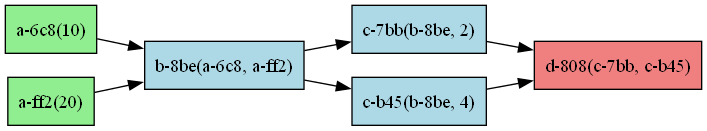
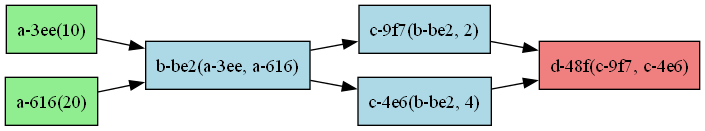
better management of task id and dag id now calling compute twice will generate 2 different dags (working with Flask Worker as well)

Changed region(s): [[0.0, 0.0305, 0.9674, 0.9771], [0.0, 0.0305, 0.1248, 0.3969]]

diff --git a/src/Executor.py b/src/Executor.py
@@ -43,14 +43,14 @@ class LocalCoroutineWorker(Worker):
                 task_dependencies: dict[str, Any] = {}
                 for dependency_task in task.upstream_nodes:
                     task_output = intermediate_storage.IntermediateStorage.get(dependency_task.id.get_full_id())
-                    if task_output is None: raise Exception(f"[BUG] Task {dependency_task.id}'s data is not available")
-                    task_dependencies[dependency_task.id] = cloudpickle.loads(task_output) # type: ignore
+                    if task_output is None: raise Exception(f"[BUG] Task {dependency_task.id.get_full_id()}'s data is not available")
+                    task_dependencies[dependency_task.id.get_full_id()] = cloudpickle.loads(task_output) # type: ignore
                 
                 # 2. EXECUTE TASK
                 self.log(task.id.get_full_id(), f"2) Executing...")
                 task_result = task.invoke(dependencies=task_dependencies)
                 upload_result = intermediate_storage.IntermediateStorage.set(task.id.get_full_id(), cloudpickle.dumps(task_result))
-                if not upload_result: raise Exception(f"[BUG] Task {task.id}'s data could not be uploaded to Redis (set() failed)")
+                if not upload_result: raise Exception(f"[BUG] Task {task.id.get_full_id()}'s data could not be uploaded to Redis (set() failed)")
 
                 if self.shutdown_flag.is_set(): return
 
@@ -60,7 +60,7 @@ class LocalCoroutineWorker(Worker):
                     return
 
                 # 3. HANDLE FAN-OUT (1-1 or 1-N)
-                self.log(task.id.get_full_id(), f"3) Handle Fan-Out {task.id} => [{[t.id for t in task.downstream_nodes]}]")
+                self.log(task.id.get_full_id(), f"3) Handle Fan-Out {task.id.get_full_id()} => [{[t.id.get_full_id() for t in task.downstream_nodes]}]")
                 ready_downstream: list[dag_task_node.DAGTaskNode] = []
                 for downstream_task in task.downstream_nodes:
                     downstream_task_total_dependencies = len(self.subdag.get_node_by_id(downstream_task.id).upstream_nodes)
@@ -68,7 +68,7 @@ class LocalCoroutineWorker(Worker):
                         ready_downstream.append(downstream_task)
                     else:
                         dependencies_met = intermediate_storage.IntermediateStorage.increment_and_get(f"dependency-counter-{downstream_task}")
-                        self.log(task.id.get_full_id(), f"Incremented DC of {downstream_task.id} ({dependencies_met}/{downstream_task_total_dependencies})")
+                        self.log(task.id.get_full_id(), f"Incremented DC of {downstream_task.id.get_full_id()} ({dependencies_met}/{downstream_task_total_dependencies})")
                         if dependencies_met == downstream_task_total_dependencies:
                             ready_downstream.append(downstream_task)
                 
@@ -94,7 +94,7 @@ class LocalCoroutineWorker(Worker):
                 else:
                     return  # Give up
         except Exception as e:
-            self.log(task.id, f"Error: {str(e)}") # type: ignore
+            self.log(task.id.get_full_id(), f"Error: {str(e)}") # type: ignore
             raise e
 
     def _parallelize(self, subsubdag: dag.DAG):
@@ -131,13 +131,13 @@ class FlaskProcessExecutor(Worker):
                 for dependency_task in task.upstream_nodes:
                     task_output = intermediate_storage.IntermediateStorage.get(dependency_task.id.get_full_id())
                     if task_output is None: raise Exception(f"[BUG] Task {dependency_task.id}'s data is not available")
-                    task_dependencies[dependency_task.id] = cloudpickle.loads(task_output) # type: ignore
+                    task_dependencies[dependency_task.id.get_full_id()] = cloudpickle.loads(task_output) # type: ignore
                 
                 # 2. EXECUTE TASK
                 self.log(task.id.get_full_id(), f"2) Executing...")
                 task_result = task.invoke(dependencies=task_dependencies)
                 upload_result = intermediate_storage.IntermediateStorage.set(task.id.get_full_id(), cloudpickle.dumps(task_result))
-                if not upload_result: raise Exception(f"[BUG] Task {task.id}'s data could not be uploaded to Redis (set() failed)")
+                if not upload_result: raise Exception(f"[BUG] Task {task.id.get_full_id()}'s data could not be uploaded to Redis (set() failed)")
 
                 if self.shutdown_flag.is_set(): return
 
@@ -147,7 +147,7 @@ class FlaskProcessExecutor(Worker):
                     return
 
                 # 3. HANDLE FAN-OUT (1-1 or 1-N)
-                self.log(task.id.get_full_id(), f"3) Handle Fan-Out {task.id} => [{[t.id for t in task.downstream_nodes]}]")
+                self.log(task.id.get_full_id(), f"3) Handle Fan-Out {task.id.get_full_id()} => [{[t.id.get_full_id() for t in task.downstream_nodes]}]")
                 ready_downstream: list[dag_task_node.DAGTaskNode] = []
                 for downstream_task in task.downstream_nodes:
                     downstream_task_total_dependencies = len(self.subdag.get_node_by_id(downstream_task.id).upstream_nodes)
@@ -155,7 +155,7 @@ class FlaskProcessExecutor(Worker):
                         ready_downstream.append(downstream_task)
                     else:
                         dependencies_met = intermediate_storage.IntermediateStorage.increment_and_get(f"dependency-counter-{downstream_task.id.get_full_id()}")
-                        self.log(task.id.get_full_id(), f"Incremented DC of {downstream_task.id} ({dependencies_met}/{downstream_task_total_dependencies})")
+                        self.log(task.id.get_full_id(), f"Incremented DC of {downstream_task.id.get_full_id()} ({dependencies_met}/{downstream_task_total_dependencies})")
                         if dependencies_met == downstream_task_total_dependencies:
                             ready_downstream.append(downstream_task)
                 

diff --git a/src/dag_task_node.py b/src/dag_task_node.py
@@ -4,6 +4,9 @@ from functools import wraps
 from typing import Any, Callable, Generic, TypeVar
 import uuid
 
+import cloudpickle
+
+import src.intermediate_storage as intermediate_storage
 import src.dag_task_node as dag_task_node
 
 R = TypeVar('R')
@@ -21,7 +24,7 @@ class DAGTaskNodeId:
 
     def get_full_id(self) -> str: 
         dag_id_str = "" if self.dag_id is None else f"-{self.dag_id}"
-        return f"{self.function_name}-{dag_id_str}{self.task_id}"
+        return f"{self.function_name}{dag_id_str}-{self.task_id}"
 
 class DAGTaskNode(Generic[R]):
     def __init__(self, func: Callable[..., R], args: tuple, kwargs: dict):
@@ -49,7 +52,7 @@ class DAGTaskNode(Generic[R]):
         import src.dag as dag
         dag.DAG.visualize(sink_node=self, open_after=open_after)
 
-    def clone(self, cloned_nodes: dict[str, "DAGTaskNode"] = None) -> "DAGTaskNode":
+    def clone(self, cloned_nodes: dict[str, "DAGTaskNode"] | None = None) -> "DAGTaskNode":
         if cloned_nodes is None:
             cloned_nodes = {}
 
@@ -57,8 +60,7 @@ class DAGTaskNode(Generic[R]):
         if self.id.task_id in cloned_nodes:
             return cloned_nodes[self.id.task_id]
 
-        # Create a shallow copy of the node
-        cloned_node = copy.deepcopy(self)
+        cloned_node = copy.deepcopy(self) # needs to be deepcopy
         cloned_nodes[self.id.task_id] = cloned_node
 
         # Clone the upstream and downstream nodes
@@ -80,9 +82,12 @@ class DAGTaskNode(Generic[R]):
     def compute(self, local=False) -> R:
         import src.dag as dag
         dag_representation = dag.DAG(sink_node=self)
-        dag_representation = dag.DAG(sink_node=self)
-        if local: return dag_representation.start_local_execution() # type: ignore
-        else: return dag_representation.start_remote_execution() # type: ignore
+        res = None
+        if local: 
+            res = dag_representation.start_local_execution() # type: ignore
+        else: 
+            res = dag_representation.start_remote_execution() # type: ignore
+        return res
 
     def invoke(self, dependencies: dict[str, Any]):
         final_func_args = []
@@ -114,7 +119,7 @@ class DAGTaskNode(Generic[R]):
         new_args = []
         for arg in self.func_args:
             if isinstance(arg, dag_task_node.DAGTaskNode):
-                new_args.append(dag_task_node.DAGTaskNodeId(arg.func_name, arg.id, None))
+                new_args.append(arg.id)
             else:
                 new_args.append(arg)
         
@@ -122,7 +127,7 @@ class DAGTaskNode(Generic[R]):
         new_kwargs = {}
         for key, value in self.func_kwargs.items():
             if isinstance(value, dag_task_node.DAGTaskNode):
-                new_kwargs[key] = dag_task_node.DAGTaskNodeId(value.func_name, value.id, None)
+                new_kwargs[key] = value.id
             else:
                 new_kwargs[key] = value
 

diff --git a/src/DAG.py b/src/DAG.py
@@ -19,11 +19,11 @@ class DAG:
         if root_nodes:
             self.root_nodes: list[dag_task_node.DAGTaskNode] = root_nodes
             self.sink_node = self._find_sink_node_from_roots(self.root_nodes).clone()
-            self.all_nodes: dict[str, dag_task_node.DAGTaskNode] = DAG._find_all_nodes_from_sink(sink_node)
+            self.all_nodes: dict[str, dag_task_node.DAGTaskNode] = DAG._find_all_nodes_from_sink(self.sink_node)
         # FULL DAG (Find real root nodes)
         else:
             self.sink_node = sink_node.clone()
-            self.all_nodes: dict[str, dag_task_node.DAGTaskNode] = DAG._find_all_nodes_from_sink(sink_node)
+            self.all_nodes: dict[str, dag_task_node.DAGTaskNode] = DAG._find_all_nodes_from_sink(self.sink_node)
             self.root_nodes: list[dag_task_node.DAGTaskNode] = DAG._find_root_nodes(self.all_nodes)
         # Find nodes by going backwards until root nodes
         # Add the DAG id to each task
@@ -75,8 +75,8 @@ class DAG:
     def _update_task_ids(self):
         ''' Assumes the nodes received are clones '''
         for old_key, node in list(self.all_nodes.items()): # Use list() to create a copy to allow mutations while iterating
-            # if self.master_dag_id:
-                # return # Assume all other nodes were already converted
+            if node.id.dag_id:
+                return # Assume all other nodes were already converted
 
             node.id.dag_id = self.master_dag_id
             self.all_nodes[node.id.get_full_id()] = node # Add the updated node to the dictionary with the new key
@@ -127,7 +127,8 @@ class DAG:
         visit(sink_node)
         return all_nodes
     
-    def get_node_by_id(self, node_id: dag_task_node.DAGTaskNodeId) -> dag_task_node.DAGTaskNode: return self.all_nodes[node_id.get_full_id()]
+    def get_node_by_id(self, node_id: dag_task_node.DAGTaskNodeId) -> dag_task_node.DAGTaskNode: 
+        return self.all_nodes[node_id.get_full_id()]
 
     @classmethod
     def visualize(cls, sink_node: dag_task_node.DAGTaskNode, output_file="dag_graph.png", highlight_roots=True, highlight_sink=True, open_after=True):

diff --git a/test.py b/test.py
@@ -26,6 +26,8 @@ c1 = c(b1, 2)
 c2 = c(b1, 4)
 d1 = d(c1, c2)
 
-d1.visualize_dag()
-result = d1.compute(local=True)
+# d1.visualize_dag()
+result = d1.compute(local=False)
+result2 = d1.compute(local=False)
 print(f"UserCode | Final Result: {result}")
+print(f"UserCode | Final Result: {result2}")
